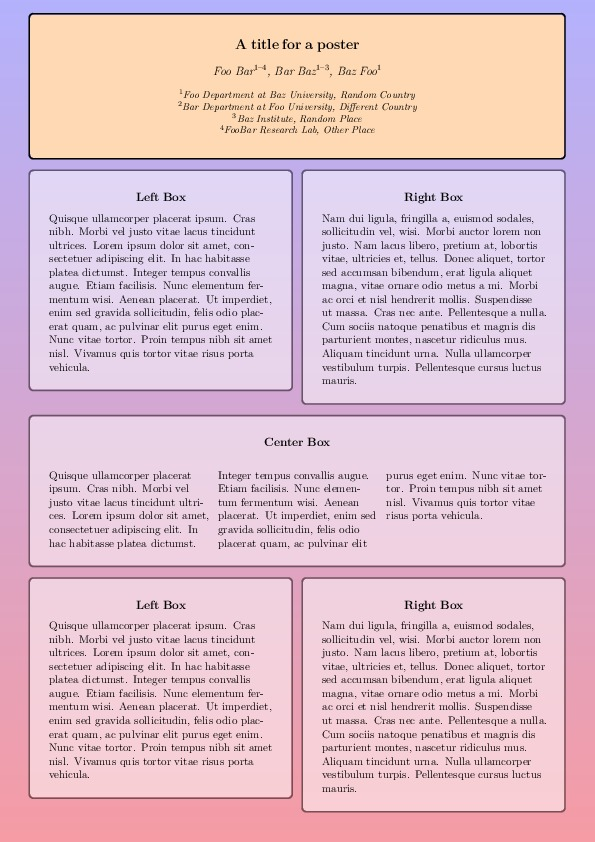
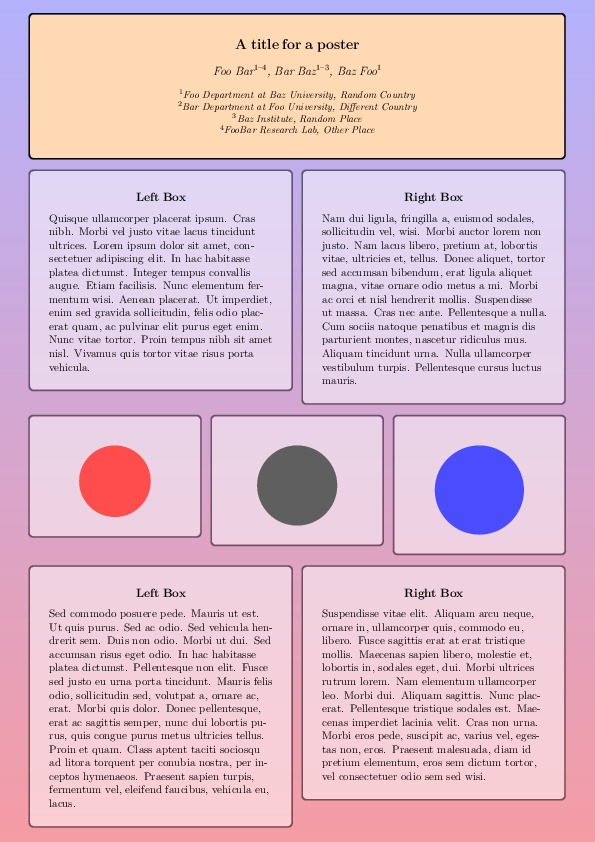
updated README.md and picture of poster

Changed region(s): [[0.0303, 0.4941, 0.9681, 0.9881]]

diff --git a/README.md b/README.md
@@ -39,6 +39,12 @@ To have two blocks on each row, use the environment
        ...
     \end{twocolumnlayout}
 
+For three blocks:
+
+    \begin{threecolumnlayout}
+      ...
+    \end{threecolumnlayout}
+
 ## Tweaking the layout
 
 The command
@@ -163,22 +169,42 @@ Example poster file that uses additional packages:
 
     \end{twocolumnlayout}
 
-    \begin{posterblock}
-      \section*{Center Box}
-      \begin{multicols}{3}
-      \lipsum[4]
-      \end{multicols}
-    \end{posterblock}
+    \begin{threecolumnlayout}
+      \begin{posterblock}
+        \begin{center}
+        \begin{tikzpicture}
+          \node [fill=red!70, circle, text width=20pt] {};
+        \end{tikzpicture}
+        \end{center}
+      \end{posterblock}
+
+      \begin{posterblock}
+        \begin{center}
+        \begin{tikzpicture}
+          \node [fill=black!70, circle, text width=30pt] {};
+        \end{tikzpicture}
+        \end{center}
+      \end{posterblock}
+
+      \begin{posterblock}
+        \begin{center}
+        \begin{tikzpicture}
+          \node [fill=blue!70, circle, text width=40pt] {};
+        \end{tikzpicture}
+        \end{center}
+      \end{posterblock}
+
+    \end{threecolumnlayout}
 
     \begin{twocolumnlayout}
       \begin{posterblock}
         \section*{Left Box}
-        \lipsum[4]
+        \lipsum[7]
       \end{posterblock}
 
       \begin{posterblock}
         \section*{Right Box}
-        \lipsum[2]
+        \lipsum[10]
       \end{posterblock}
     \end{twocolumnlayout}
 
